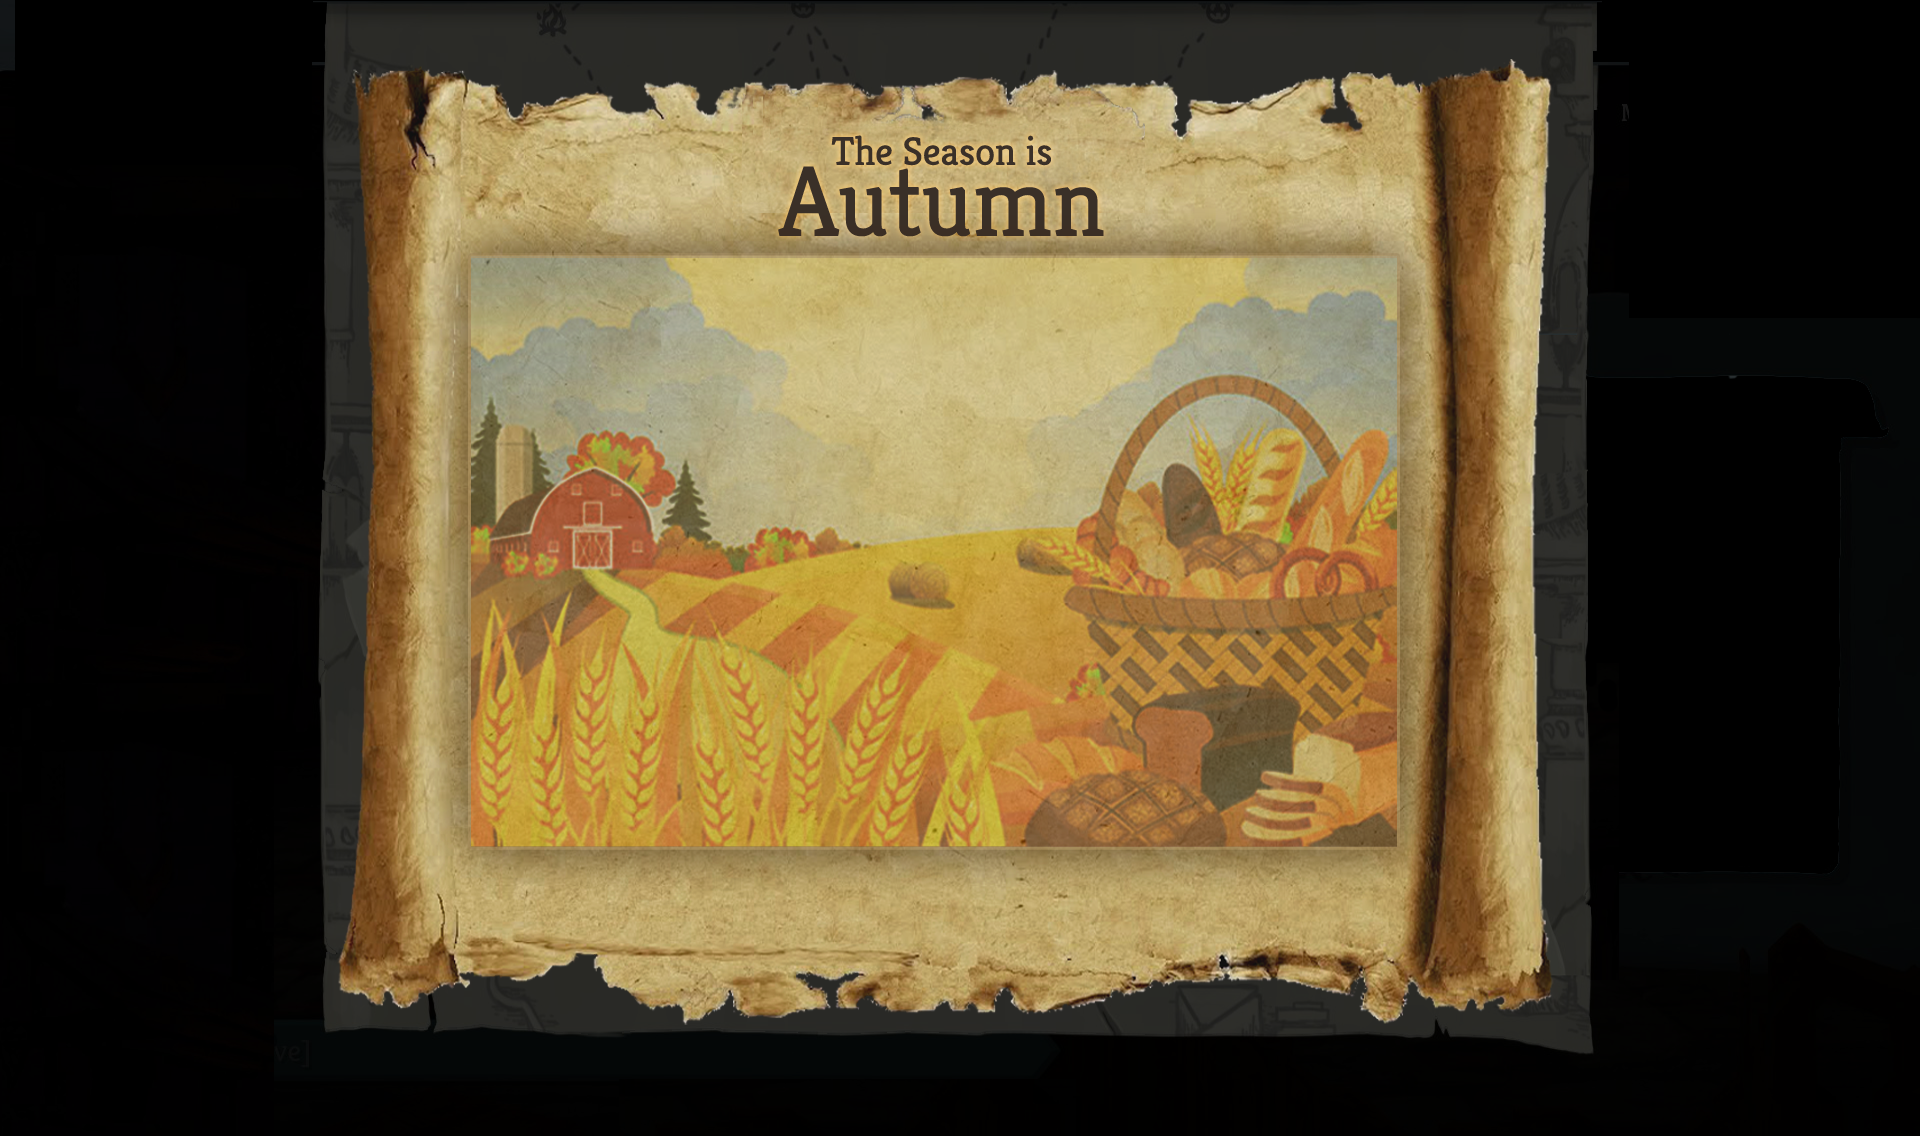
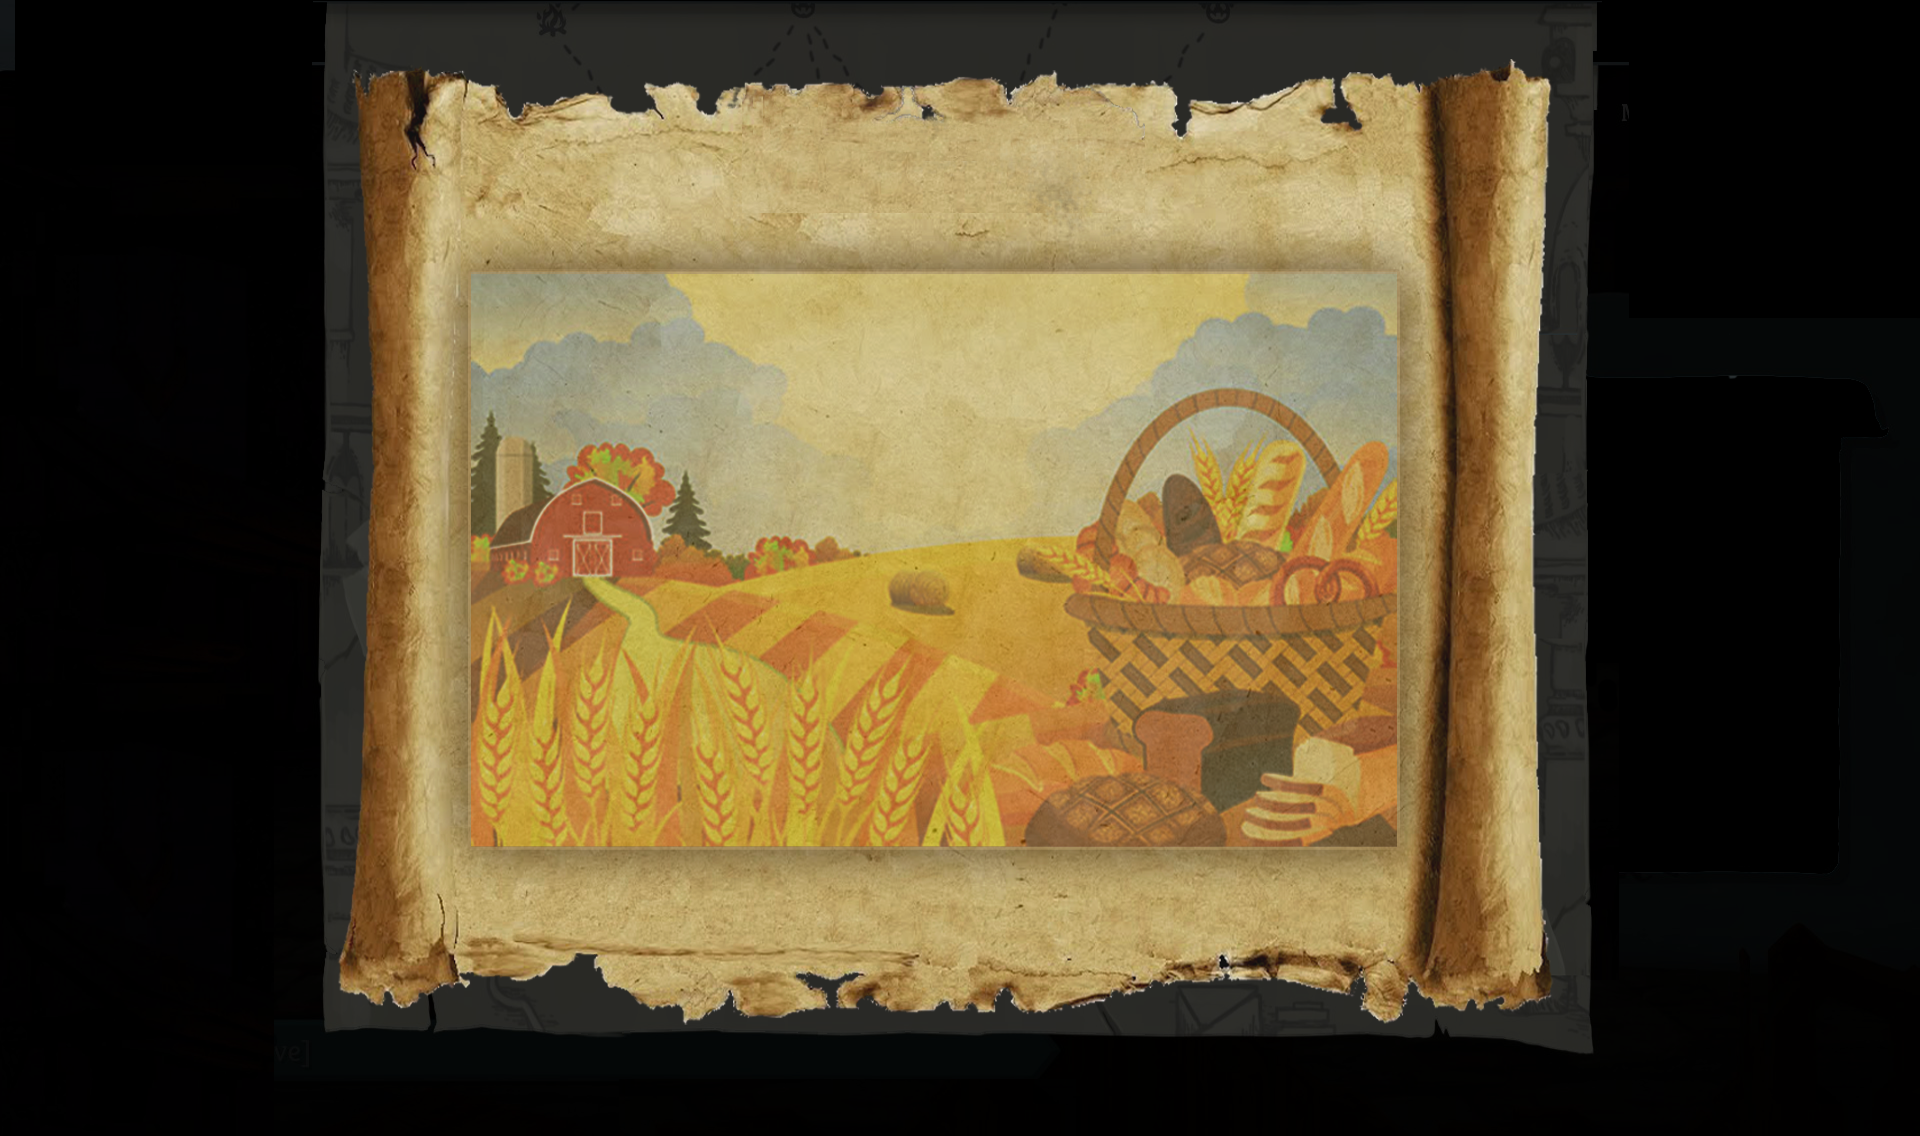
season screen ui text

diff --git a/src/main/java/thesimpleton/ui/seasons/SeasonScreen.java b/src/main/java/thesimpleton/ui/seasons/SeasonScreen.java
@@ -4,6 +4,7 @@ import com.badlogic.gdx.graphics.Color;
 import com.badlogic.gdx.graphics.Texture;
 import com.badlogic.gdx.graphics.g2d.SpriteBatch;
 import com.megacrit.cardcrawl.cards.AbstractCard;
+import com.megacrit.cardcrawl.core.CardCrawlGame;
 import com.megacrit.cardcrawl.core.Settings;
 import com.megacrit.cardcrawl.dungeons.AbstractDungeon;
 import com.megacrit.cardcrawl.helpers.FontHelper;
@@ -27,18 +28,16 @@ import java.util.List;
 // TODO: animate fade-in
 
 public class SeasonScreen implements ReadyButtonPanel  {
-  private static final String ID = "SeasonScreen";
+  private static final String UI_NAME = TheSimpletonMod.makeID("SeasonScreen");
   private static final String BACKGROUND_IMG_PATH = getUiPath("season-screen-background");
-  private static UIStrings uiStrings;
 
-  public static String[] TEXT = {
-      "The Season is",
-      "The Following Crops are in Season:"
-  };
+  private UIStrings uiStrings;
 
   private float scale = 1.0F;
 
 //  private static final float CARD_OFFSET_X = -16.0F;
+  private final static float SEASON_DESCRIPTION_PREAMBLE_Y = 1024;
+  private final static float SEASON_DESCRIPTION_NAME_Y = 972;
   private static final float CARD_OFFSET_X = -30.0F;
   private static final float CROP_TEXT_OFFSET_X = -4.0F;
 
@@ -76,13 +75,6 @@ public class SeasonScreen implements ReadyButtonPanel  {
 
   public SeasonScreen() {
     hb = new Hitbox(width * Settings.scale, height * Settings.scale);
-
-    textEffect.changeColor(new Color(0.9F, 0.9F, 0.9F, 1.0F));
-    // TODO: fix NPE on game load
-
-    // TODO:
-    //  uiStrings = CardCrawlGame.languagePack.getUIString(TheSimpletonMod.makeID(ID));
-    //  TEXT = uiStrings.TEXT;
   }
 
   public boolean isOpen() {
@@ -180,13 +172,31 @@ public class SeasonScreen implements ReadyButtonPanel  {
       return;
     }
 
+    final String[] uiText = getUiText();
+
     // TODO: scale this to screen
     sb.draw(getBackgroundImage(), 0.0F, backgroundImageY, Settings.WIDTH, Settings.HEIGHT);
     hb.render(sb);
 
     getReadyButton().render(sb);
 
-    FontHelper.renderFontCentered(sb, FontHelper.bannerFont, TEXT[1], (Settings.WIDTH / 2.0F) + CROP_TEXT_OFFSET_X,
+
+   final TintEffect seasonNameTextEffect = new TintEffect();
+   seasonNameTextEffect.changeColor(new Color(1.0F, 0.87F, 0.0F, 1.0F));
+
+    FontHelper.renderFontCentered(sb, FontHelper.losePowerFont, uiText[0], (Settings.WIDTH / 2.0F),
+        SEASON_DESCRIPTION_PREAMBLE_Y * Settings.scale, seasonNameTextEffect.color, this.scale);
+
+    FontHelper.renderFontCentered(sb, FontHelper.bannerNameFont, TheSimpletonMod.getSeason().name, (Settings.WIDTH / 2.0F),
+        SEASON_DESCRIPTION_NAME_Y * Settings.scale, seasonNameTextEffect.color, this.scale);
+    FontHelper.renderFontCentered(sb, FontHelper.bannerNameFont,  TheSimpletonMod.getSeason().name, (Settings.WIDTH / 2.0F),
+        SEASON_DESCRIPTION_NAME_Y * Settings.scale, seasonNameTextEffect.color, this.scale);
+
+//    FontHelper.SCP_cardEnergyFont.setColor();
+
+    textEffect.changeColor(new Color(0.9F, 0.9F, 0.9F, 1.0F));
+
+    FontHelper.renderFontCentered(sb, FontHelper.bannerFont, uiText[1], (Settings.WIDTH / 2.0F) + CROP_TEXT_OFFSET_X,
         CROPS_IN_SEASON_TEXT_Y * Settings.scale, textEffect.color, this.scale);
 
     for (final AbstractCard c : inSeasonCropCards) {
@@ -213,6 +223,13 @@ public class SeasonScreen implements ReadyButtonPanel  {
       card.current_x = card.target_x;
       card.current_y = card.target_y;
     }
+  }
+
+  private String[] getUiText() {
+    if (uiStrings == null) {
+      uiStrings = CardCrawlGame.languagePack.getUIString(UI_NAME);
+    }
+    return uiStrings.TEXT;
   }
 
   @Override

diff --git a/src/main/java/thesimpleton/TheSimpletonMod.java b/src/main/java/thesimpleton/TheSimpletonMod.java
@@ -403,17 +403,22 @@ public class TheSimpletonMod implements EditCardsSubscriber, EditCharactersSubsc
 //        TheSimpletonMod.addCropPowerCardsToPool(cropPowerCards);
 //    }
 
+    private static SeasonInfo seasonInfo;
+
+    public static Season getSeason() {
+        return seasonInfo.getSeason();
+    }
+
     private void initializeSeason() {
         logger.debug("@@@@@DEBUG@@@@@ TheSimpletonMod::initializeSeason Initializing Season ...");
 
-        SeasonInfo seasonInfo = chooseRandomSeason();
+        seasonInfo = chooseRandomSeason();
         List<AbstractCropPowerCard> seasonalCropCards = chooseSeasonalCropCards(seasonInfo);
 
         setSeasonalCropCards(seasonalCropCards);
 
         setSeasonRelic(AbstractSeasonRelic.getSeasonRelic(seasonInfo.getSeason()));
         equipSeasonalRelic(seasonRelic);
-
 //        List<AbstractCard> cardPool = new ArrayList<>();
 //        cardPool.addAll(AbstractDungeon.commonCardPool.group);
 //        cardPool.addAll(AbstractDungeon.uncommonCardPool.group);

diff --git a/src/main/java/thesimpleton/seasons/Season.java b/src/main/java/thesimpleton/seasons/Season.java
@@ -1,12 +1,26 @@
 package thesimpleton.seasons;
 
+import com.megacrit.cardcrawl.core.CardCrawlGame;
+import com.megacrit.cardcrawl.localization.UIStrings;
+import thesimpleton.TheSimpletonMod;
+
 import java.util.*;
 
 public enum Season {
-  WINTER,
-  SPRING,
-  SUMMER,
-  FALL;
+  WINTER("WinterSeason"),
+  SPRING("SpringSeason"),
+  SUMMER("SummerSeason"),
+  AUTUMN("AutumnSeason");
+
+  public final String uiName;
+  public final String name;
+
+  Season(String uiName) {
+    this.uiName = uiName;
+
+    final UIStrings uiStrings = CardCrawlGame.languagePack.getUIString(TheSimpletonMod.makeID(uiName));
+    name = uiStrings.TEXT[0];
+  }
 
   public static Season randomSeason() { return SEASONS.get(RANDOM.nextInt(SEASONS.size())); }
 

diff --git a/src/main/java/thesimpleton/relics/seasons/AutumnSeasonRelic.java b/src/main/java/thesimpleton/relics/seasons/AutumnSeasonRelic.java
@@ -11,7 +11,7 @@ public class AutumnSeasonRelic extends AbstractSeasonRelic implements CustomSava
   public static final String IMG_PATH_LARGE = "relics/seasonautumn_large.png";
   public static final String OUTLINE_IMG_PATH = "relics/seasonautumn_outline.png";
 
-  private static final Season SEASON = Season.FALL;
+  private static final Season SEASON = Season.AUTUMN;
 
   public AutumnSeasonRelic() {
     super(ID, IMG_PATH, IMG_PATH_LARGE, OUTLINE_IMG_PATH ,SEASON);

diff --git a/src/main/java/thesimpleton/patches/cards/CardPoolSavable.java b/src/main/java/thesimpleton/patches/cards/CardPoolSavable.java
@@ -48,8 +48,8 @@ public class CardPoolSavable implements CustomSavable<List<String>> {
 
     if (ids == null && !ids.isEmpty()) {
 //
-//      for (String id : ids) {
-//        TheSimpletonMod.addCardToLoadedCardPool(CardLibrary.getCard(id));
+//      for (String uiName : ids) {
+//        TheSimpletonMod.addCardToLoadedCardPool(CardLibrary.getCard(uiName));
 //      }
 
       int cardIndex = 0;

diff --git a/src/main/java/thesimpleton/relics/seasons/AbstractSeasonRelic.java b/src/main/java/thesimpleton/relics/seasons/AbstractSeasonRelic.java
@@ -151,7 +151,7 @@ public abstract class AbstractSeasonRelic extends CustomRelic implements CustomS
 
   public static AbstractSeasonRelic getSeasonRelic(Season season) {
     switch (season) {
-      case FALL:
+      case AUTUMN:
         return new AutumnSeasonRelic();
       case WINTER:
       case SPRING:
